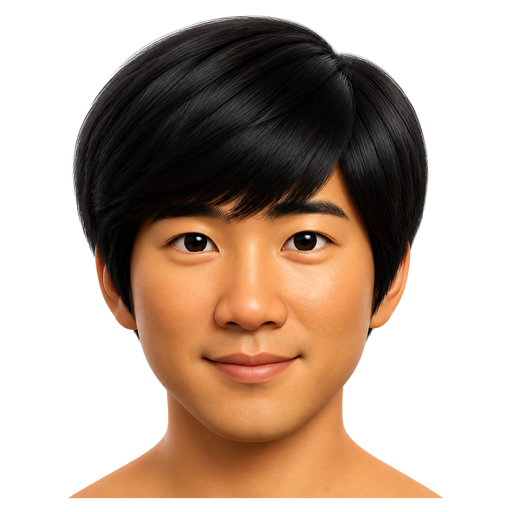
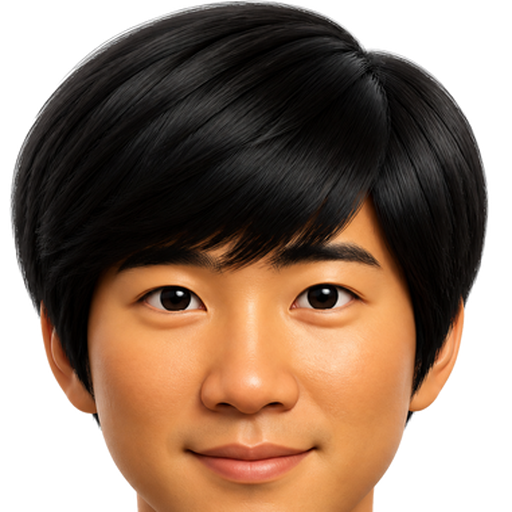
얼굴 텍스처를 얼굴 영역만 크롭, 매핑 범위 조정

diff --git a/app.js b/app.js
@@ -620,10 +620,10 @@ class Character3D {
       this.faceReady = true;
     });
     this.faceTex = tex;
-    const FACE_ARC = 2.55;
+    const FACE_ARC = 2.10;
     const faceGeo = new THREE.SphereGeometry(1.012, 56, 44,
       Math.PI / 2 - FACE_ARC / 2, FACE_ARC,
-      0.30, 1.70);
+      0.34, 1.88);
     this.faceMat = new THREE.MeshStandardMaterial({
       map: tex, transparent: true, alphaTest: 0.45,
       roughness: 0.78, metalness: 0.0,

diff --git a/index.html b/index.html
@@ -167,6 +167,6 @@
 
 <div class="toast" id="toast"></div>
 
-<script type="module" src="app.js?v=44"></script>
+<script type="module" src="app.js?v=46"></script>
 </body>
 </html>
